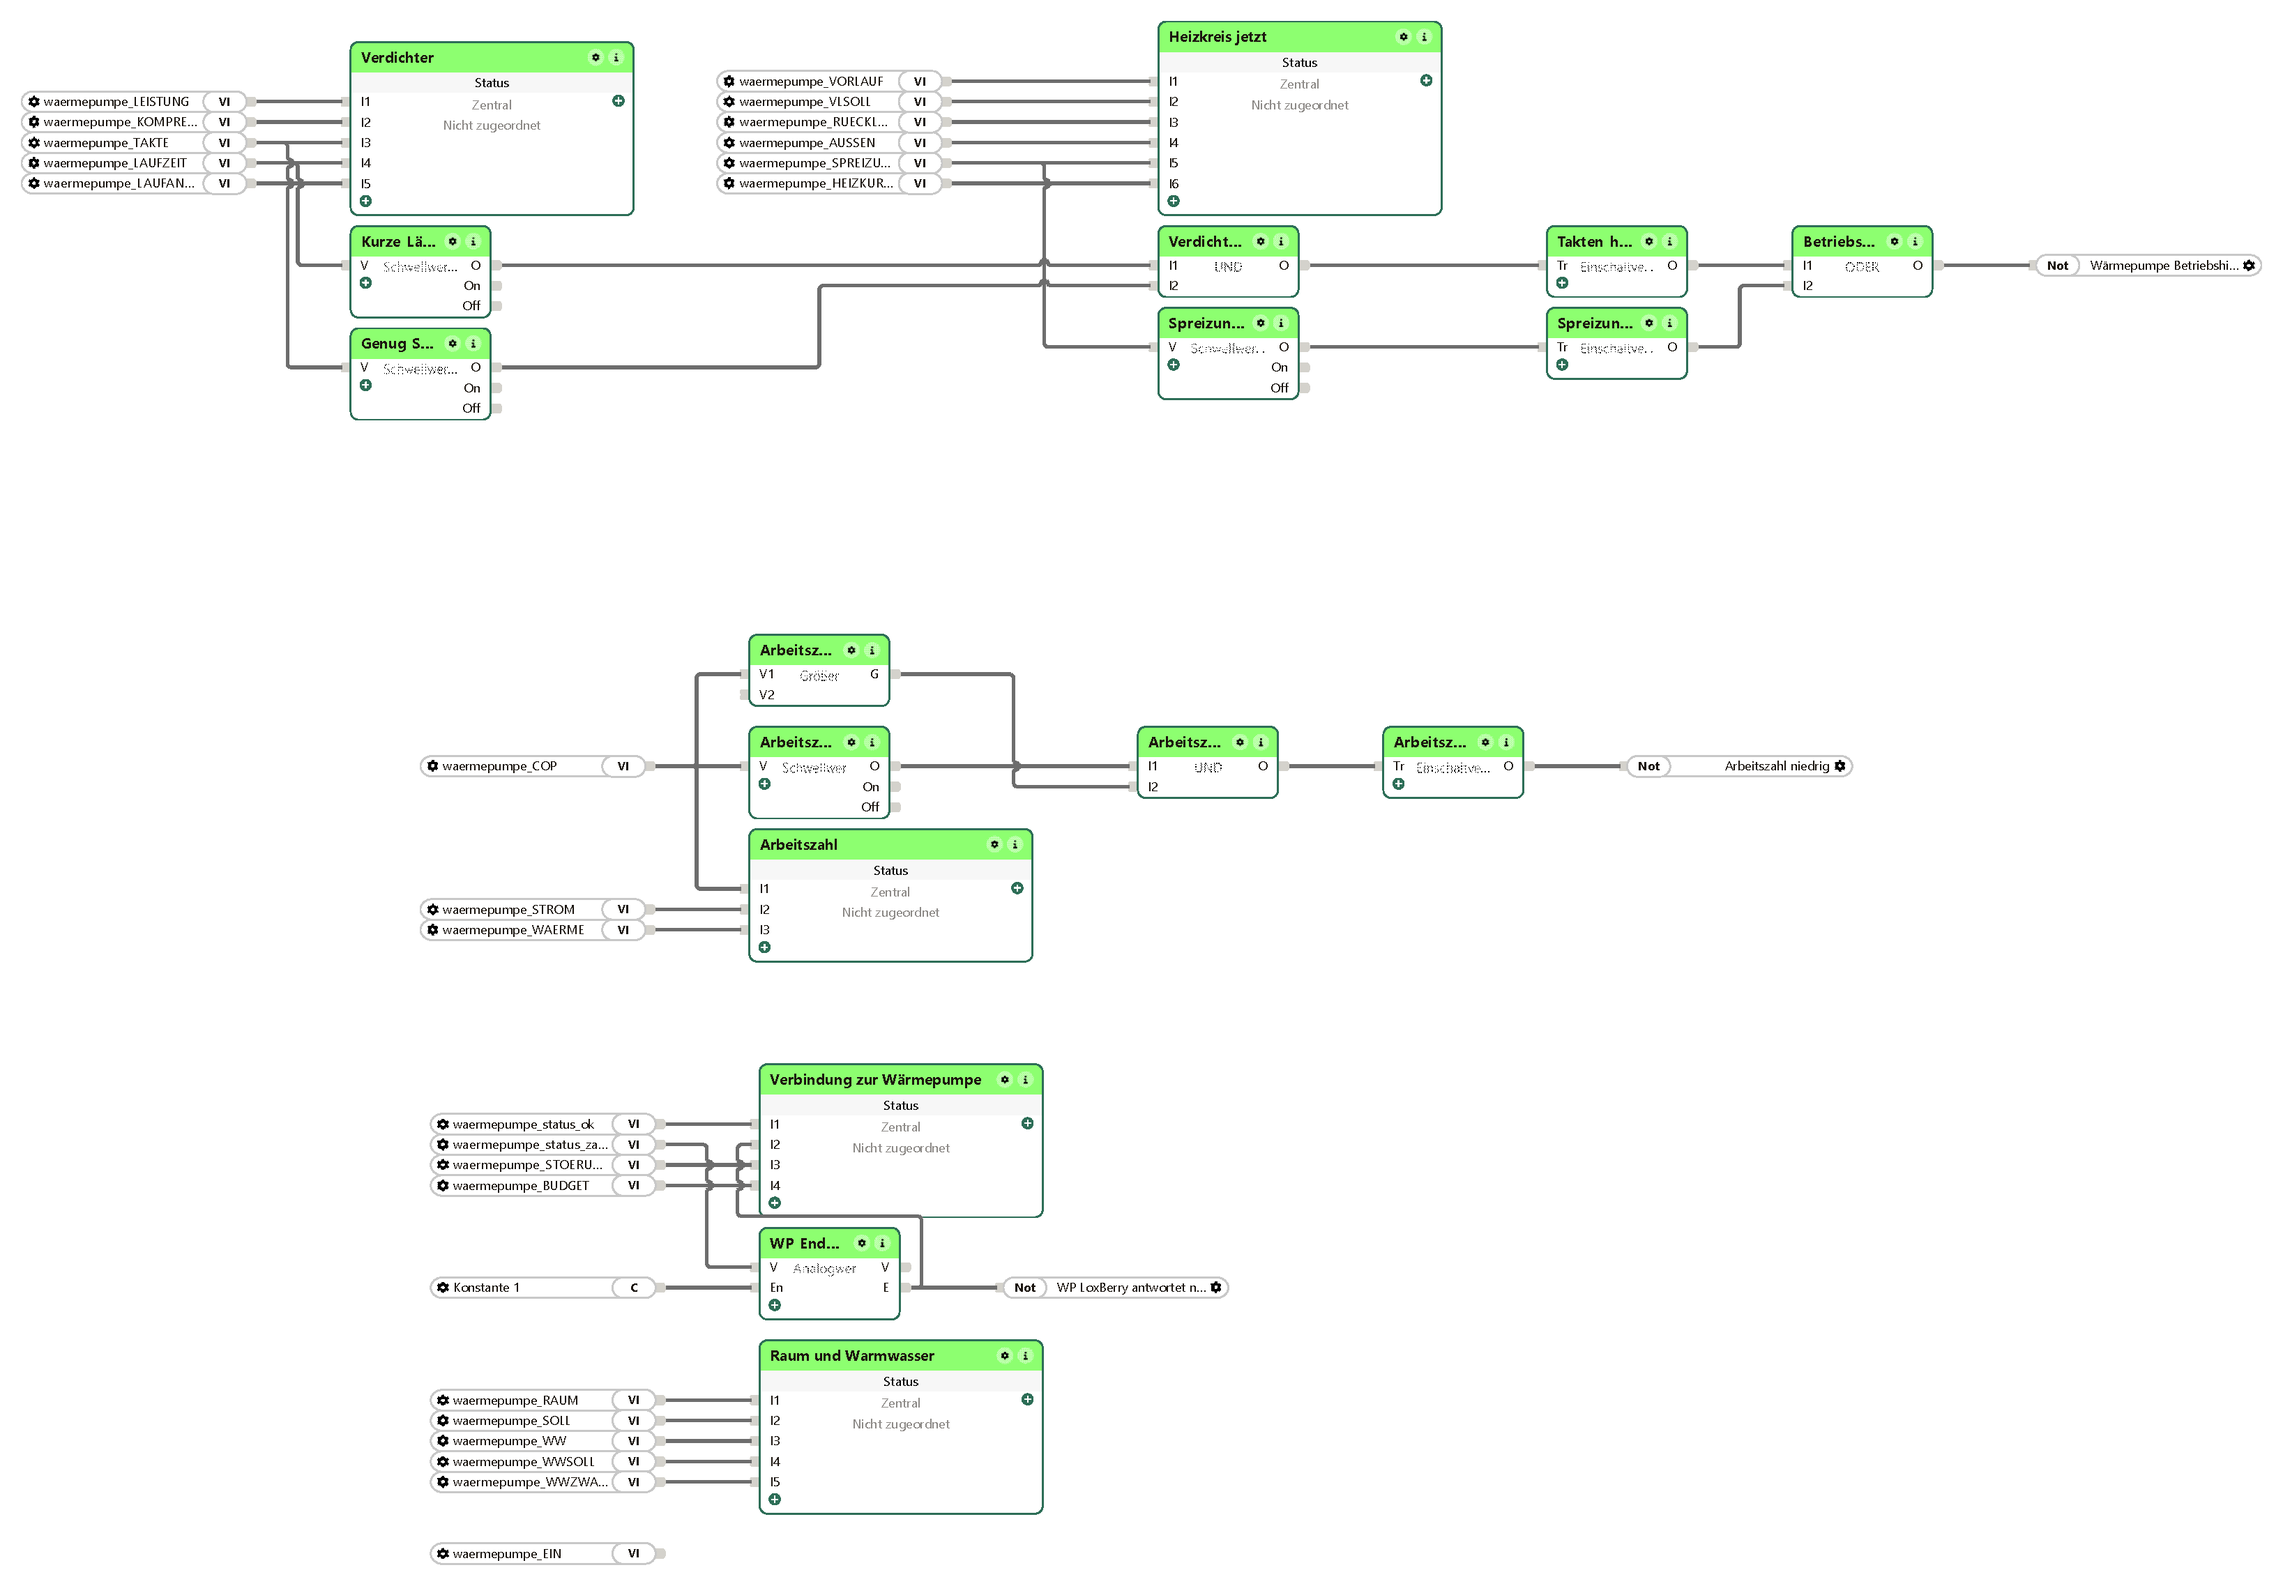
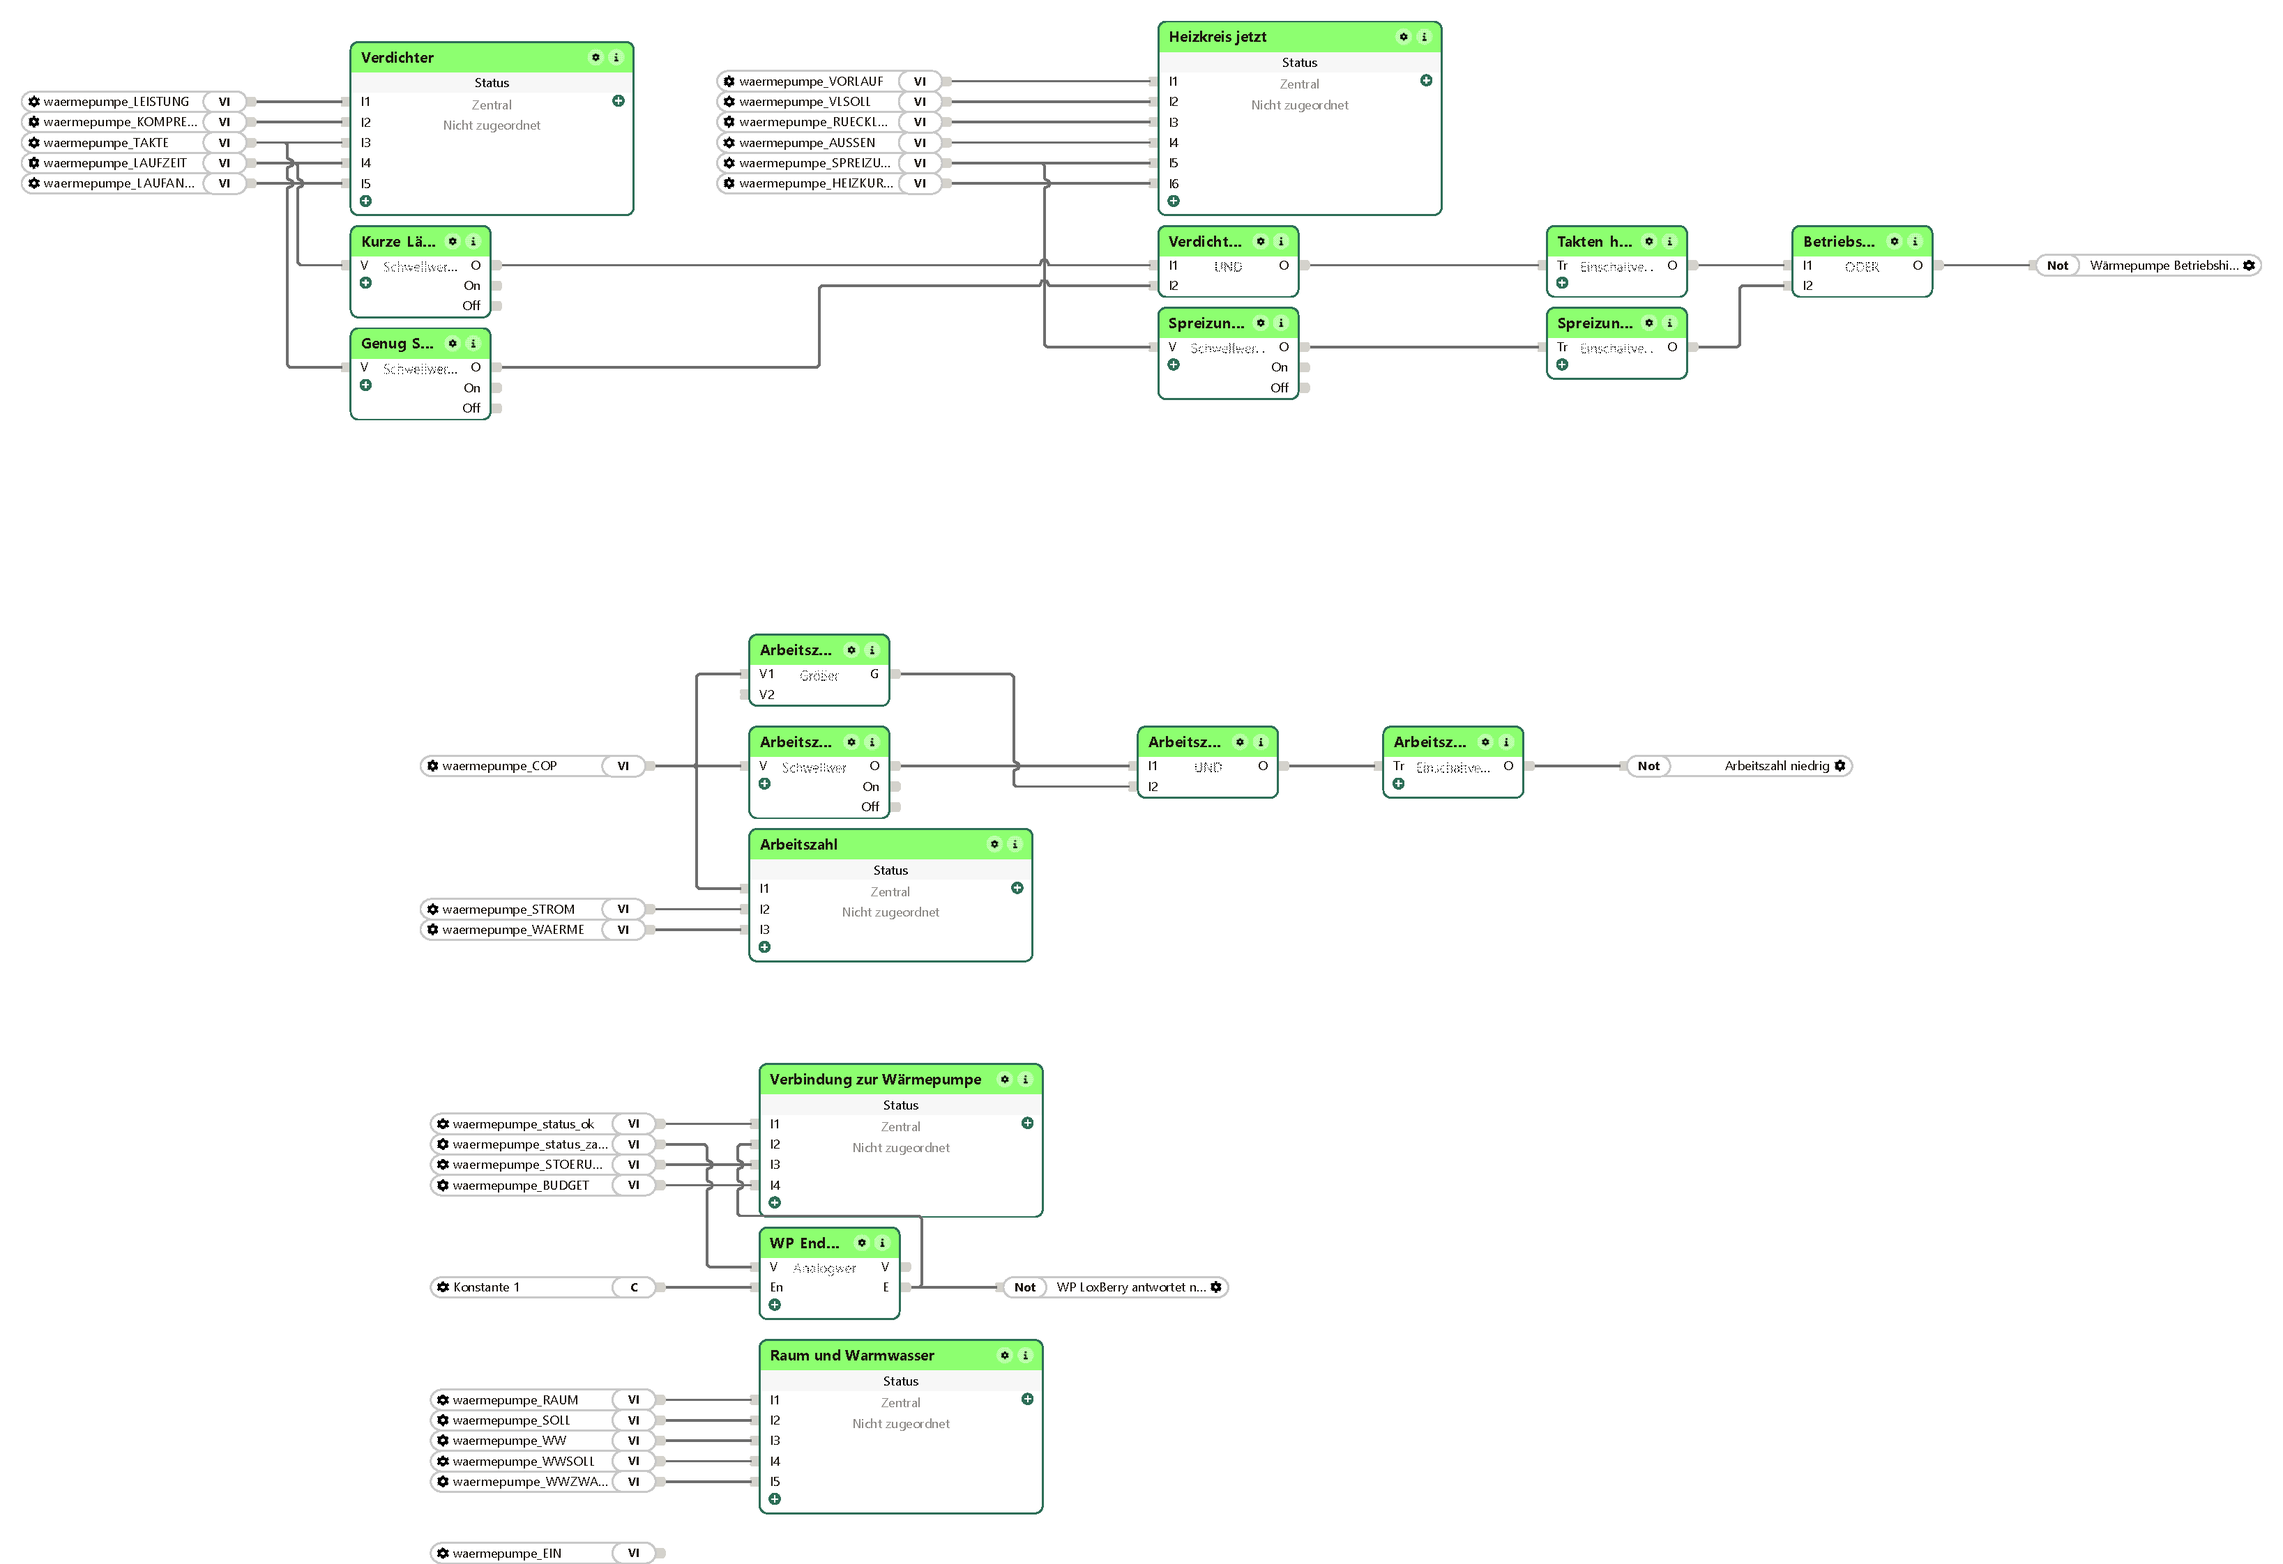
WaermepumpeCloud 0.9.38: Bilder der Einbindung erneuert (Musterprojekt 614cd0f)
Bilder der Einbindung erneuert: Die Bilder der Seiten „WaermepumpeCloud“ und „WaermepumpeCloud Werte“ zeigen die neu angeordneten Seiten. Sonst keine Änderung gegen 0.9.37.

diff --git a/README.md b/README.md
@@ -62,6 +62,10 @@ Adresse und Vorlage müssen im Heimnetz liegen; die Sprechtoken stehen in keiner
 Prüfzeile im Reiter Test; dort zeigt die Prüfadresse das Aktionstoken nur noch maskiert (Knopf „Adresse
 kopieren“).
 
+## Neu in 0.9.38
+
+Bilder der Einbindung erneuert: Die Bilder der Seiten „WaermepumpeCloud“ und „WaermepumpeCloud Werte“ zeigen die neu angeordneten Seiten. Sonst keine Änderung gegen 0.9.37.
+
 ## Neu in 0.9.37
 
 Pflegefassung der Nachtwelle (29.10.2026): die gemeinsamen Module auf dem Hausstand. Werte, Themen und Befehle bleiben,
